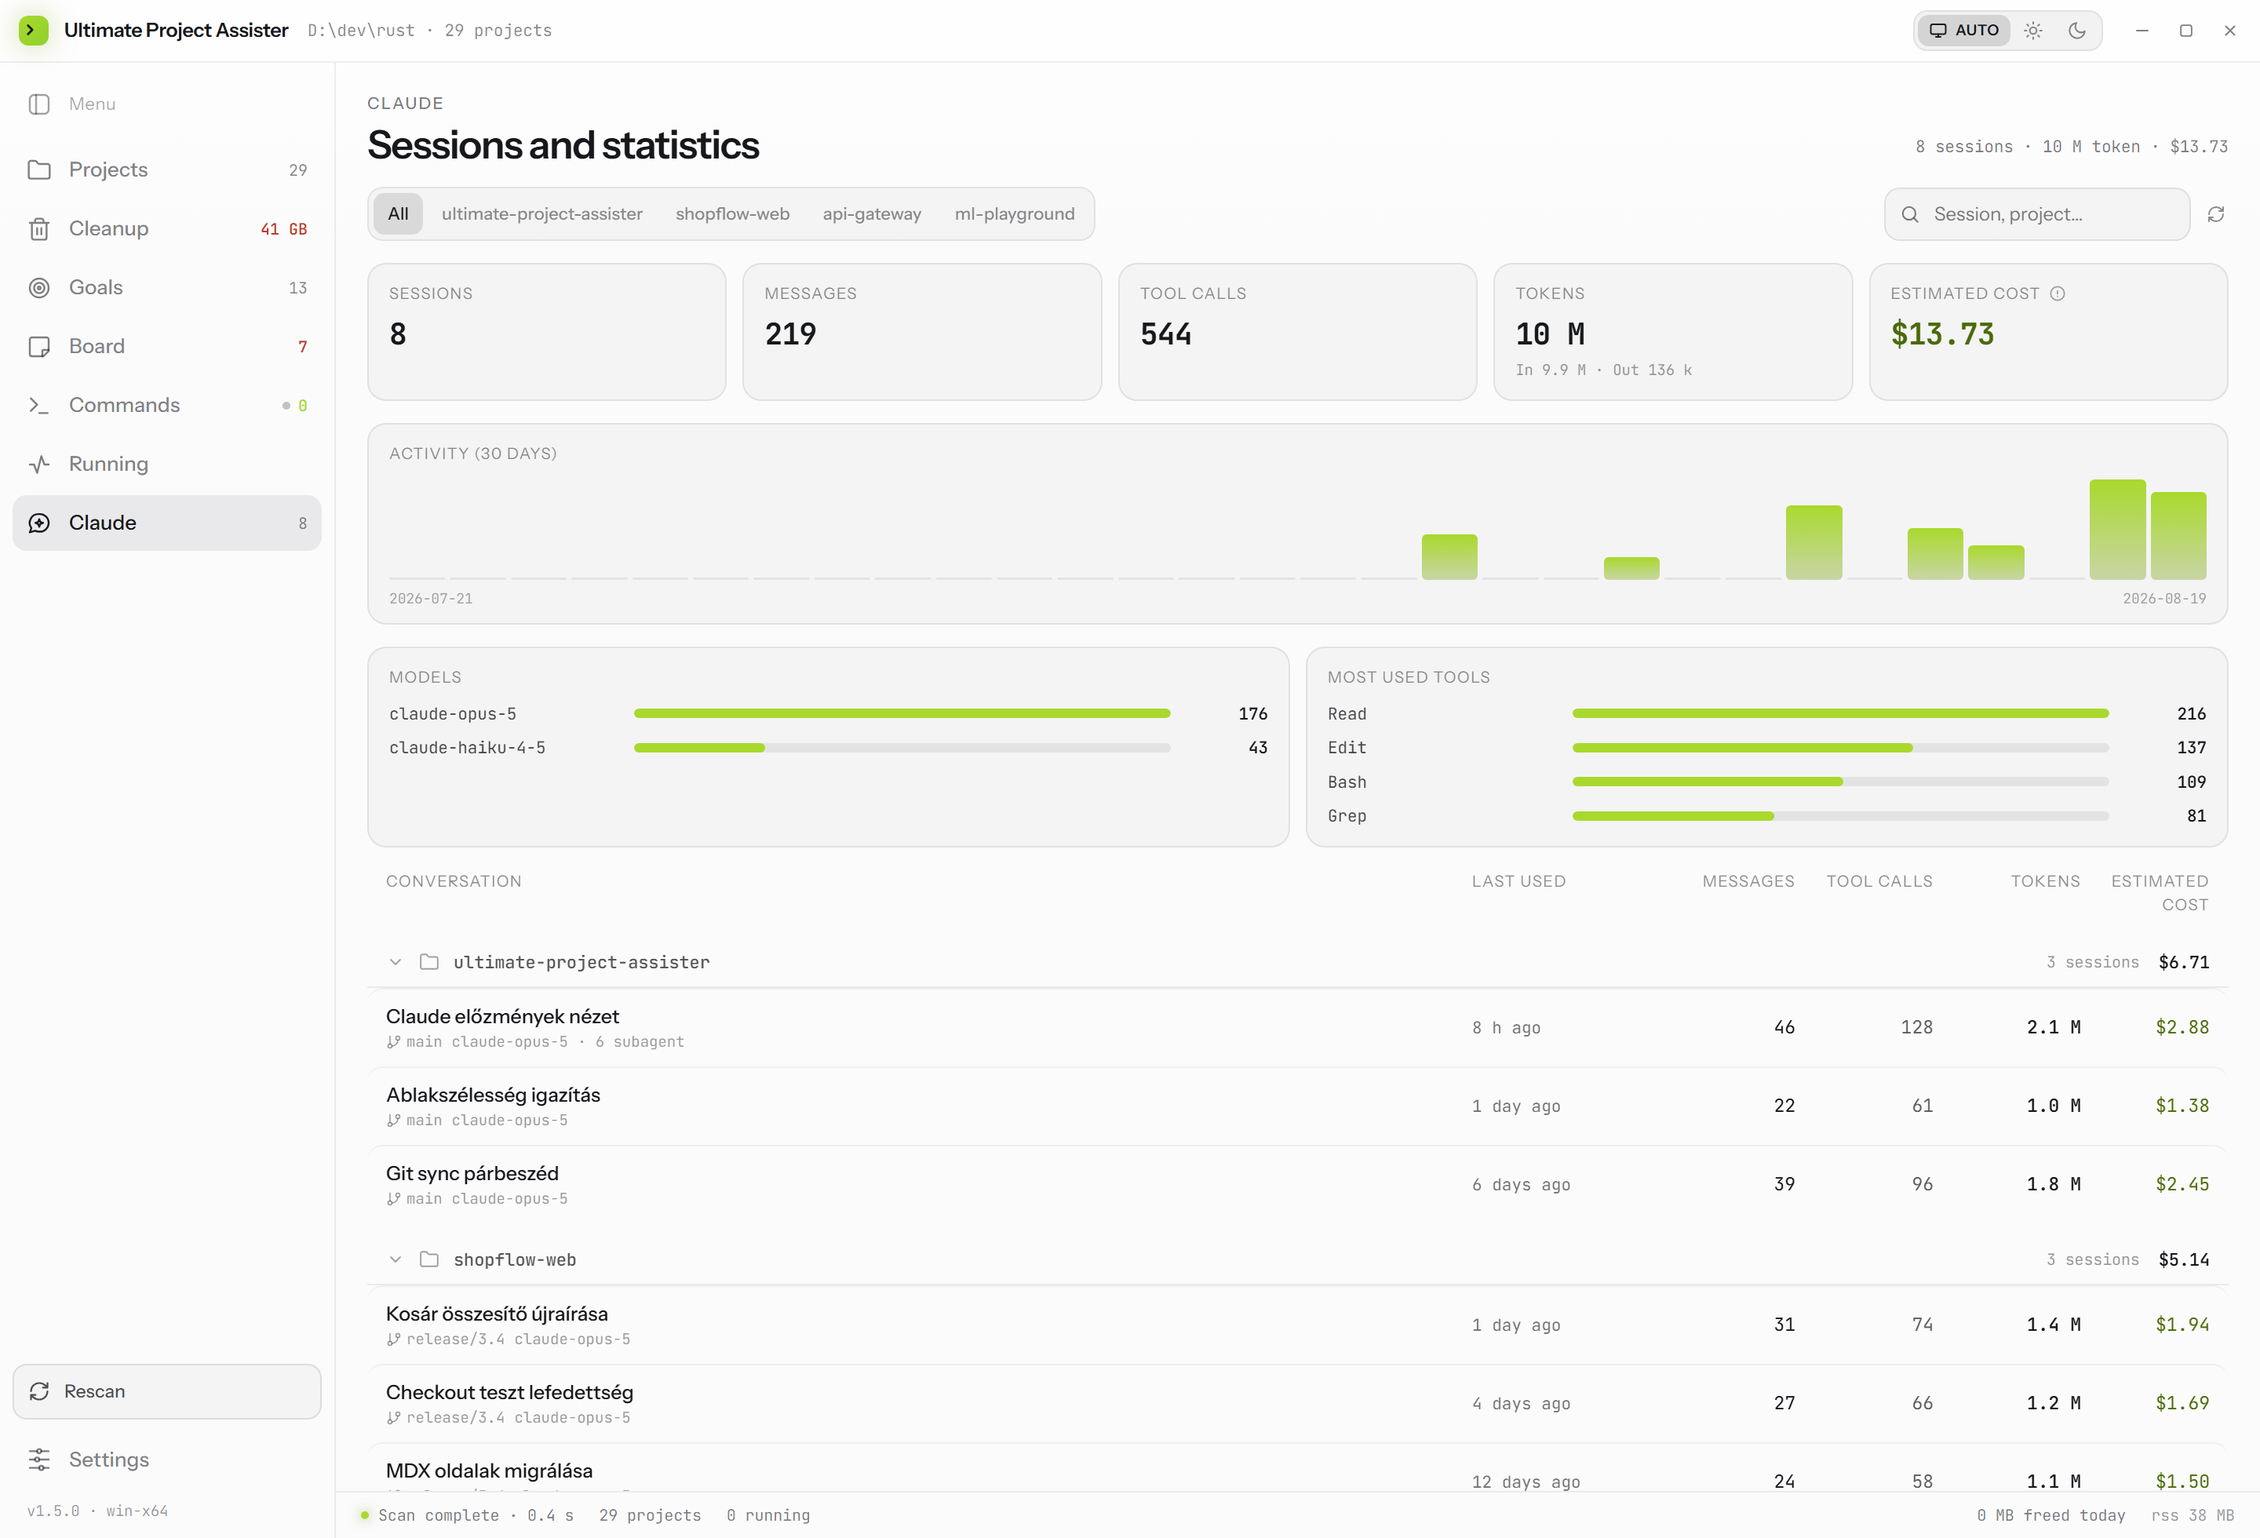
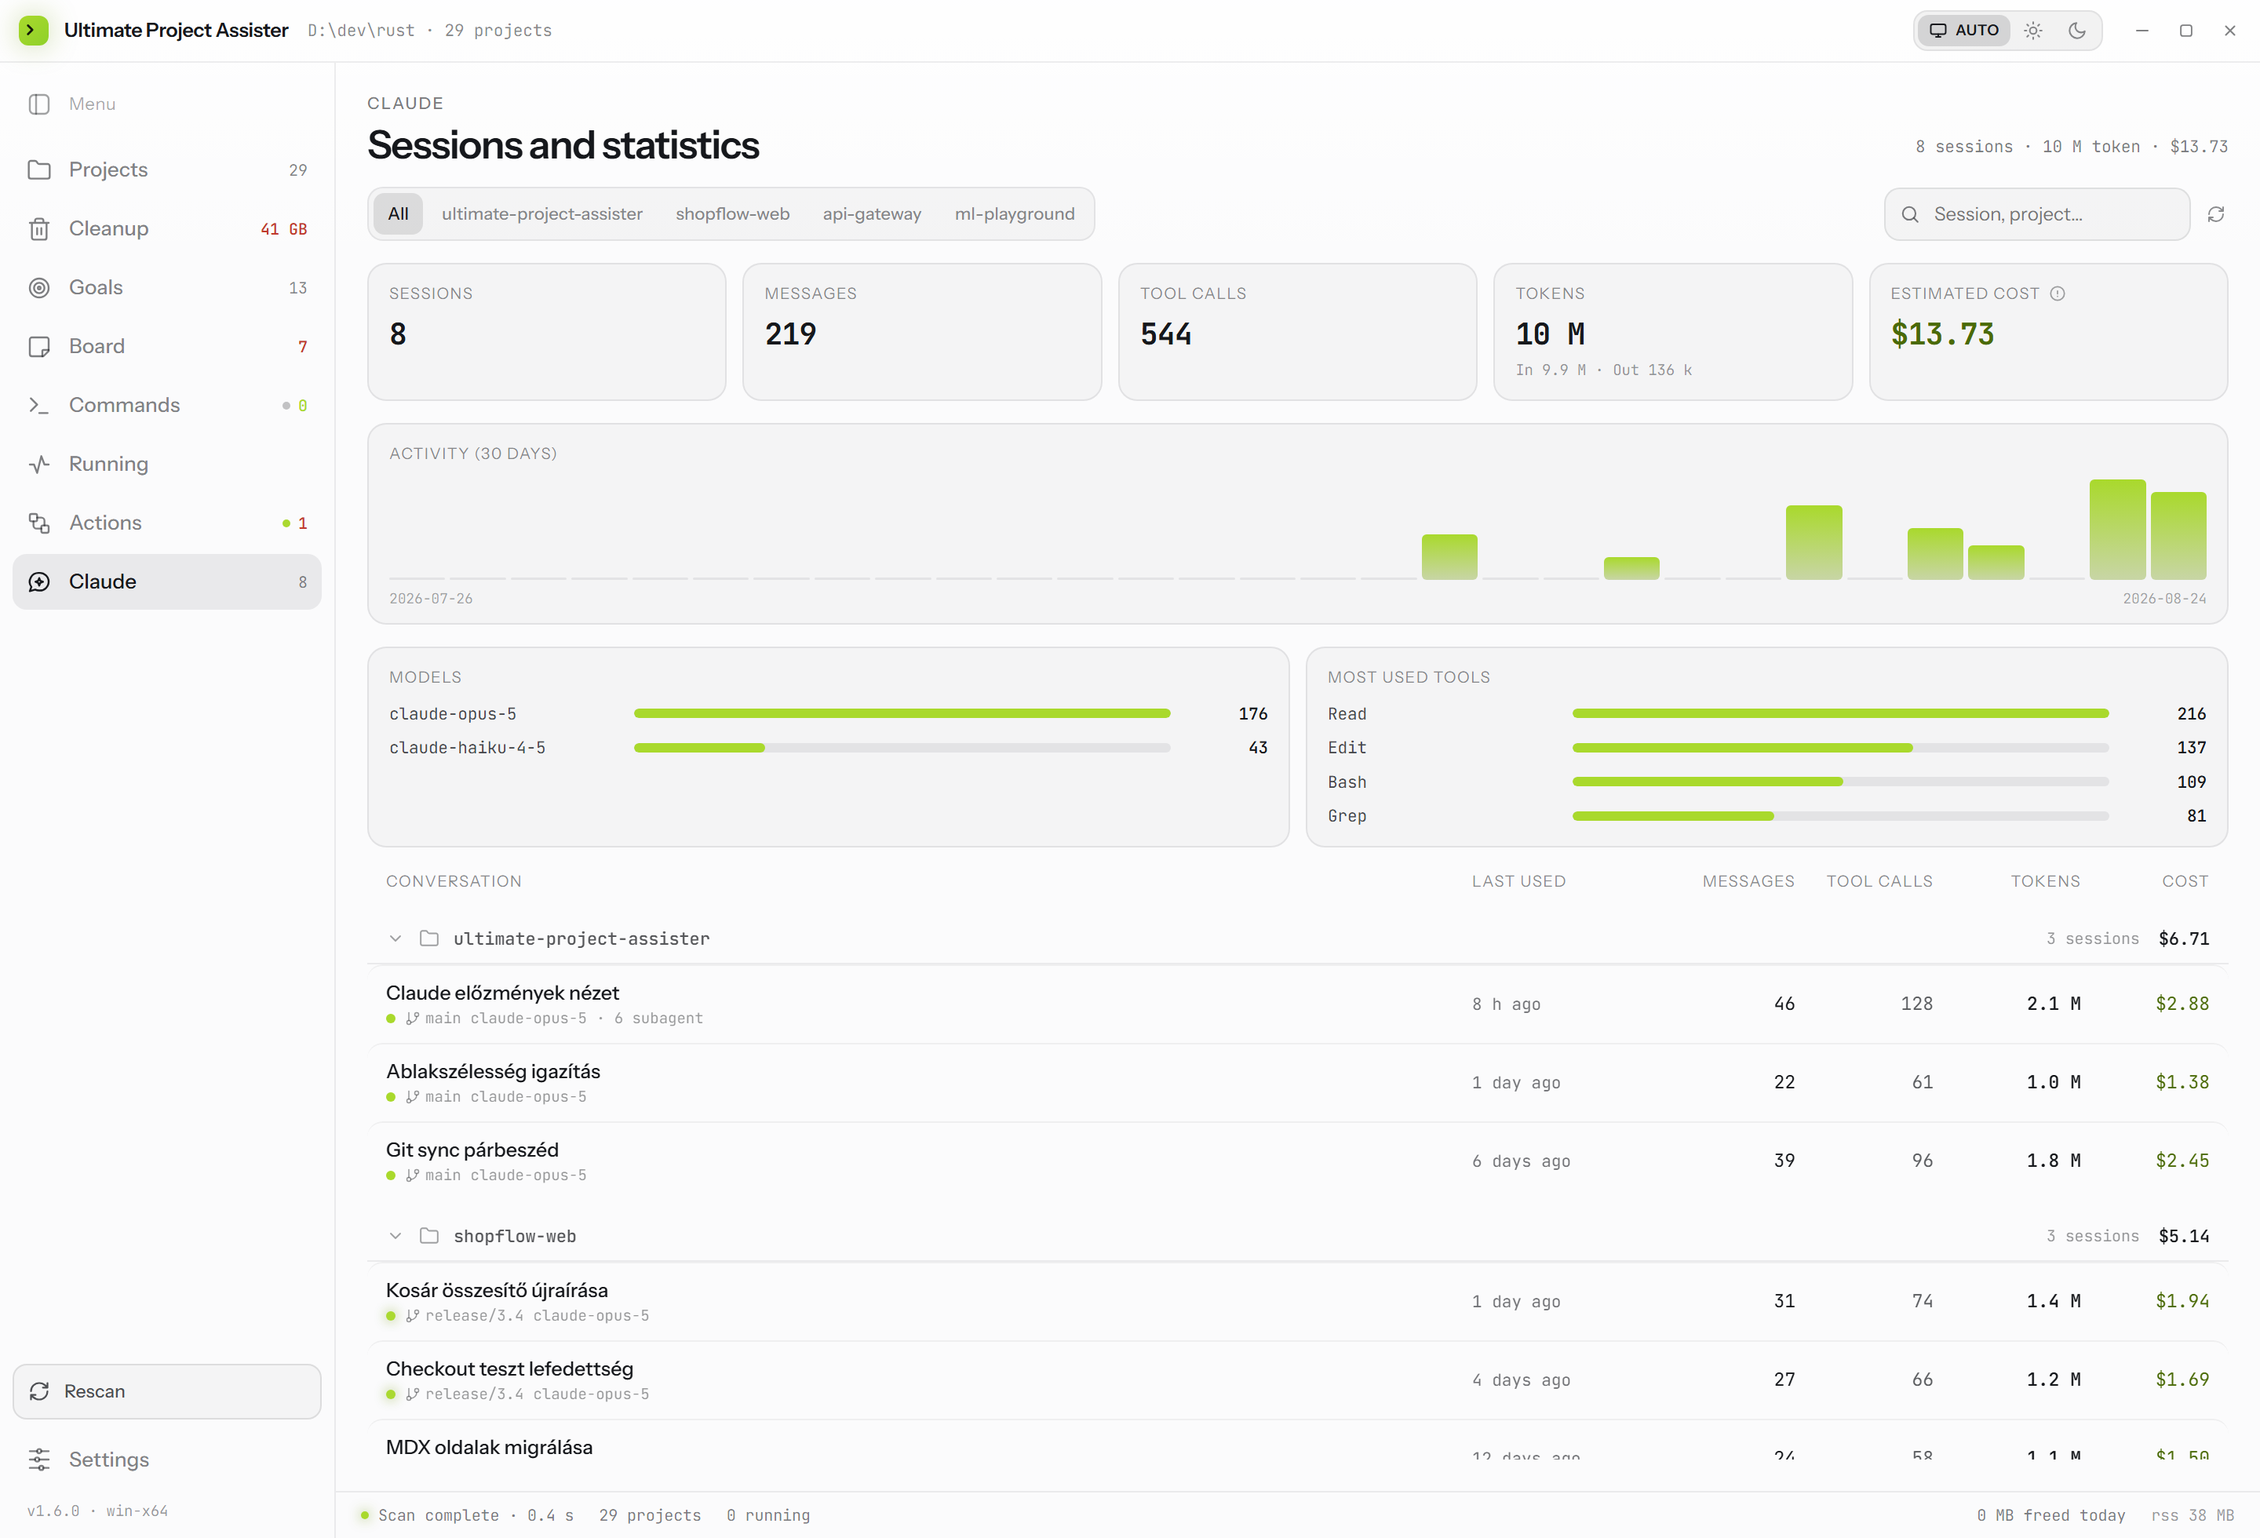
docs: the GitHub side, and how it stays cheap
A document for the whole integration — why it goes through gh rather than an
HTTP client of its own, what is asked and how often, why conditional requests
make refreshing nearly free, the closed set of three writes, and the list of
states that are answers rather than failures.

README gains the view and its screenshot; the changelog entry goes under
Unreleased.

diff --git a/src-tauri/src/github/mod.rs b/src-tauri/src/github/mod.rs
@@ -99,7 +99,7 @@ impl Repo {
         // GitHub Enterprise hosts are not github.com but speak the same API;
         // anything clearly another service is left alone.
         let known = host == "github.com" || host.contains("github");
-        known.then(|| Repo { host, owner, name })
+        known.then_some(Repo { host, owner, name })
     }
 
     pub fn slug(&self) -> String {
@@ -618,11 +618,6 @@ impl Client {
             .map(|run| run.url)
             .filter(|url| url.starts_with("https://"))
             .ok_or_else(|| "that run is not one of this project's".to_string())
-    }
-
-    /// The allowance as last reported by any call.
-    pub fn rate(&self) -> Rate {
-        *self.rate.lock().unwrap()
     }
 
     /// A GET whose answer may come from the cache, from a `304`, or from the

diff --git a/docs/github-integration.md b/docs/github-integration.md
@@ -1,0 +1,123 @@
+# The GitHub side
+
+The app reads every repository on the disk already. This is the half only the
+server can answer: whether the build passed, what is deployed where, what is
+waiting for review, and the housekeeping a checkout cannot show.
+
+Everything here is read-only unless a command says otherwise, and every request
+is built from a project's own remote — **the frontend names a project, never a
+URL**.
+
+---
+
+## How it talks to GitHub
+
+Through the [`gh` CLI](https://cli.github.com), not an HTTP client of our own.
+
+| | Why |
+| --- | --- |
+| **The token stays where it is** | `gh auth login` already stored one. This app never holds a secret, never writes one to `settings.json`, and cannot leak one it does not have. |
+| **No OAuth dance** | No GitHub App, no callback server, no refresh handling. |
+| **No new dependency** | No TLS stack in the binary for a feature many users will not switch on. |
+
+What it costs is a program having to be installed. That is an ordinary state
+which the UI reports the way it reports a missing Docker daemon — with a
+sentence and the command that fixes it (`gh auth login`).
+
+`src-tauri/src/github/gh.rs` is the whole transport, and it is small on
+purpose: `gh api -i` for REST (the `-i` keeps the status line and the headers,
+which is where the ETag and the rate limit live) and `gh run view --log-failed`
+for logs, because those come back as a zip that has to be unpacked and stitched
+and `gh` already does exactly that. A different transport — `reqwest` with a
+token from the OS keychain — can be dropped in behind the same two methods
+without a view noticing.
+
+## Rate limits, and why refreshing is cheap
+
+Five thousand requests an hour sounds generous until thirty projects are asked
+about repeatedly. Two things keep it from mattering:
+
+- **Conditional requests.** Every answer is kept with its `ETag`, and the next
+  ask sends `If-None-Match`. A `304` costs **nothing** against the allowance.
+- **A time-to-live per kind of question.** Runs are asked at most every 45
+  seconds, environments and releases every five minutes, a repository's own
+  facts every half hour, and search — which has an allowance of its own, thirty
+  a minute — every two minutes.
+
+Polling follows from that: the Actions view refreshes itself only while
+something is actually running, and stops the moment everything has finished,
+because the answer would not change.
+
+## What is asked, and when
+
+| Question | Endpoint | Asked |
+| --- | --- | --- |
+| Who am I, what is left of the allowance | `/rate_limit`, `/user` | Once the projects are known |
+| Build state per project | `/repos/{o}/{r}/actions/runs` | Same sweep; polled while a run is in flight |
+| Environments and what is live in them | `/environments`, `/deployments`, `/deployments/{id}/statuses` | Same sweep — but the first call answers "none" for the price of one conditional request, and most repositories stop there |
+| Pull requests | `/search/issues` ×2 | Only when the list is opened |
+| A repository's housekeeping | `/repos/{o}/{r}`, `/branches/{b}/protection`, `/actions/secrets`, billing | Only for the project on screen |
+| Releases | `/repos/{o}/{r}/releases` | Only for the project on screen |
+| A failed run's log | `gh run view --log-failed` | Only when the Log button is pressed |
+
+## The two and a half writes
+
+Everything else is reading. What this app will ask GitHub to *do* is a closed
+set, and each one needs a second press to confirm:
+
+- **Re-run the failed jobs** of a run — not the whole run, since the green jobs
+  cost minutes to repeat and prove nothing.
+- **Cancel** a run that is going.
+- **Draft a release** from a `CHANGELOG.md` section. A *draft*: this app can do
+  the typing, but publishing is an announcement, and announcements stay the
+  user's to make. The draft opens on GitHub for them to read and publish — or
+  throw away, which costs nothing and tells nobody.
+
+The run id is checked against the project's own repository before either of the
+first two runs, so a caller cannot name a run belonging to somebody else.
+
+## Where it shows up
+
+- **Projects** — a dot before the name, drawn only when GitHub has actually
+  been asked about that project. A column would stand empty for everything
+  without a remote, and an empty column asks a question it cannot answer.
+- **Actions** — the remote half of the Running view: runs grouped by project,
+  whatever is going at the top, then the failures. Environments as pills in the
+  group headers. A filter switches the body to the pull requests waiting on you.
+- **Project detail** — a Repo card (visibility, licence, topics, branch
+  protection, secret names, Actions minutes) and an Actions card with the last
+  few runs. When there is nothing to show, the workflows read off the disk are
+  listed instead: a workflow that has never run is a fact too, and seeing it
+  needs nobody's permission.
+- **Changelog** — each version says `released`, `draft`, or offers to prepare
+  one.
+- **Sync window** — before pulling somebody else's commits in, whether the last
+  run on the remote passed.
+- **Claude** — a session row carries the build state of the branch it worked
+  on. The session says what was done; the dot says whether it survived CI.
+
+## States that are not failures
+
+Each of these is an ordinary answer with a sentence, never an error toast:
+
+no remote · a remote that is not GitHub · a private repository the token cannot
+see · Actions disabled on a fork · a repository with no environments · a
+repository with no runs yet · branch protection the token may not ask about
+(distinguished from *not protected*, because those differ) · billing the token
+may not see · the allowance run out · no network · `gh` not installed · `gh`
+installed but logged out.
+
+## Testing
+
+Parsing is pure functions over saved JSON, so the suite touches no network. The
+transport is the only part that shells out, and it is one file behind two
+methods — a fake is enough to exercise everything above it.
+
+## What is deliberately not here
+
+- **Publishing** a release, deleting anything, editing an issue or a comment.
+- **A second service.** GitHub Enterprise works (the host comes from the
+  remote, and `gh` is told about it); GitLab and Gitea do not, and would want
+  their own transport behind the same shapes rather than `if` branches.
+- **Webhooks or a background daemon.** This is a dashboard you open, not a
+  service that watches your repositories while it is closed.

diff --git a/README.md b/README.md
@@ -43,6 +43,7 @@ the pinned ones in a block of their own above the folders.</sub>
 | **Board** | A free canvas of draggable notes with a project tag, a deadline and three colours. Opened from a project, new notes take that project; opened on its own, it asks which project a note belongs to. |
 | **Commands** | Runnable commands read out of the manifests — every npm/pnpm/yarn/bun script, Makefile targets, cargo, compose — grouped by the file each came from. The ones that start, build or check a project lead their group; any command can be pinned. Every run gets its own log tab, and a port that is already taken is raised before the process starts rather than after it dies. |
 | **Running** | What is actually running, under Commands: which project each process belongs to, the ports it holds, its memory and uptime, and a stop button. Not a task manager — a process earns a row by being started from here, listening on a port, or working inside a watched project. |
+| **GitHub** | Build state, deployments and pull requests for the projects that have a GitHub remote, spoken through the `gh` CLI so no token is ever held here. A dot per project in the lists, an Actions view for the runs and environments, the pull requests waiting on you, the repository's own housekeeping, and the tail of a failed build with a prompt to take away. Requests are conditional, so refreshing barely touches the hourly allowance. See [docs/github-integration.md](docs/github-integration.md). |
 | **Claude** | Every Claude Code session held in these projects, read from the logs under `~/.claude/projects`: how many sessions and messages, what they spent in tokens, an estimated cost against published API rates, thirty days of activity, and which models and tools did the work. Sessions are grouped by the project they were run in, and any one of them opens as a readable transcript. |
 | **Git sync** | Whether a project has fallen behind the branch it tracks, which only a fetch can answer — so there is one button that fetches every remote, and a badge on the projects that have moved. Opening one says who pushed what, and offers the single operation that fits: a fast-forward when nothing of yours is in the way, a rebase when both sides have moved. Uncommitted work is stashed and put back; a rebase that stops on a conflict says which files, and can be undone in one click. |
 | **Requirements** | What each project needs installed — Node and the package manager its lockfile names, cargo, Python, Go, Docker, Make, and the rest — checked against PATH, with versions. Anything missing says which manifest asked for it, and offers the install command where the tool is packaged. |
@@ -105,6 +106,25 @@ and system processes are listed without a button at all.
 ### Commands
 
 ![The commands view](docs/screenshots/cmd.png)
+
+### GitHub
+
+The remote half of the dashboard. Runs grouped by the project they belong to,
+whatever is going at the top and the failures next; environments as pills, so
+what is live where reads at a glance; and a filter that swaps the body for the
+pull requests waiting on you.
+
+A red run offers two things: the tail of its failed jobs' log, and one button
+that puts the failure on the clipboard as a message worth pasting — which
+project, which run, which branch, then the log. Re-running the failed jobs and
+cancelling a run in flight are the only writes, and each needs a second press.
+
+It speaks through the `gh` CLI, so the token stays where `gh auth login` put it
+and this app never holds a secret. Requests carry an ETag, and a `304` costs
+nothing against the hourly allowance — which is what lets the list poll itself
+while something is running and stop the moment it finishes.
+
+![The GitHub Actions view](docs/screenshots/actions.png)
 
 ### Claude
 

diff --git a/CHANGELOG.md b/CHANGELOG.md
@@ -8,6 +8,38 @@ the project adheres to [Semantic Versioning](https://semver.org/spec/v2.0.0.html
 Every change is recorded here as it lands, under `Unreleased`. Version numbers
 are assigned when a release is cut — see [CONTRIBUTING.md](CONTRIBUTING.md).
 
+## [Unreleased]
+
+### Added
+
+- **The GitHub side of the dashboard.** For every project with a GitHub remote:
+  whether the build passed, what is deployed to which environment, which pull
+  requests are waiting on you, and the housekeeping a checkout cannot show —
+  licence, topics, branch protection, the names of the Actions secrets, the
+  month's Actions minutes.
+
+  It shows up where each answer is wanted rather than only in one place: a dot
+  before a project's name in the lists, an Actions view for the runs and the
+  environments, cards on the project detail, a line in the sync window saying
+  whether the commits you are about to pull in built, a mark on each changelog
+  version saying whether it was ever released, and a build state on the Claude
+  sessions, against the branch each worked on.
+
+  A red run offers the tail of its failed jobs' log and one button that puts the
+  failure on the clipboard as a message worth pasting. A pull request can be put
+  on the board as a note. A changelog section can be written to GitHub as a
+  **draft** release — publishing stays the user's to do.
+
+  It speaks through the `gh` CLI, so the token stays where `gh auth login` put
+  it and this app never holds a secret; a missing or logged-out `gh` is reported
+  the way a missing Docker daemon is. Requests are conditional, so a `304` costs
+  nothing against the hourly allowance, and the list only polls itself while
+  something is actually running. Writing is a closed set of three, each behind a
+  second press: re-run the failed jobs, cancel a run, draft a release.
+
+  The workflows in `.github/workflows` are read during a scan as well, so a
+  project's workflows are known without a network, a token, or a single run.
+
 ## [1.6.0] - 2026-08-19
 
 ### Added
